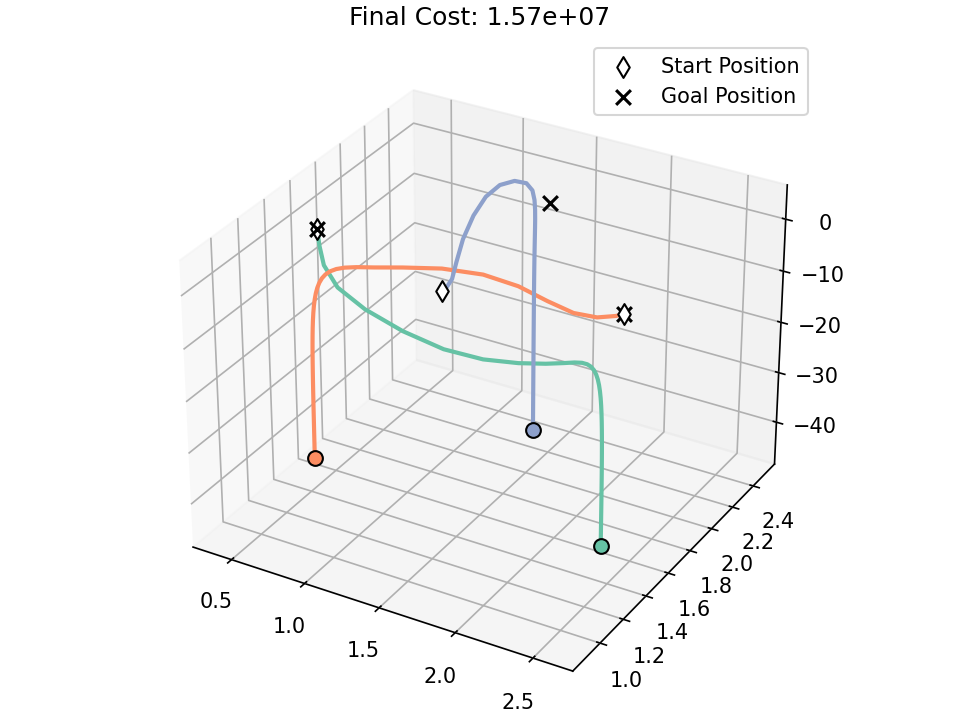
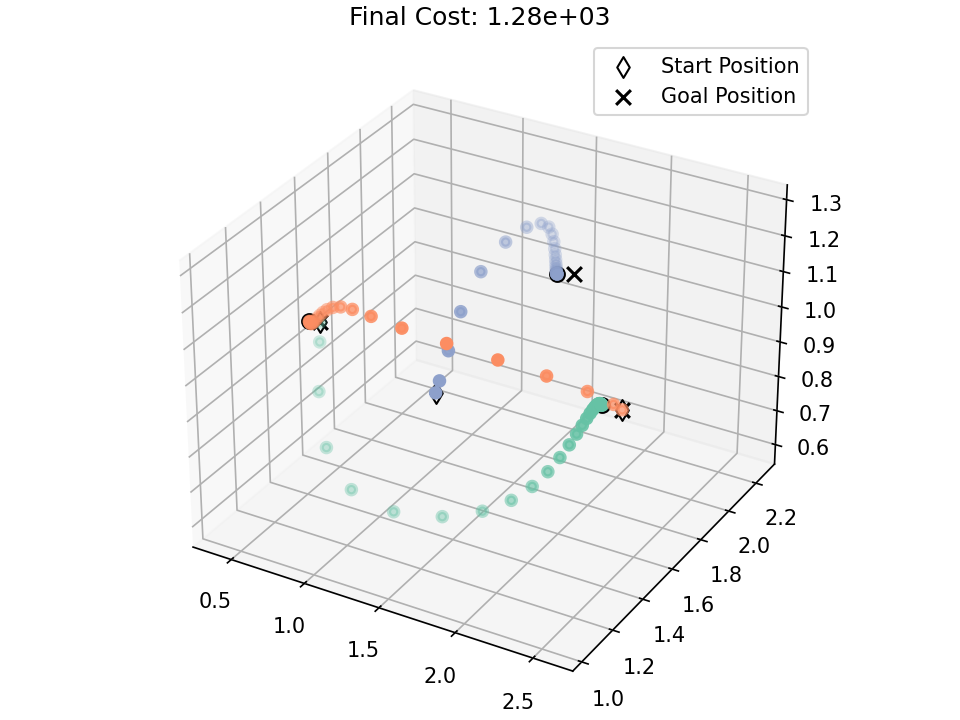
reverted back to using IPOPT and collision cost

diff --git a/distributed_ADMM/main.py b/distributed_ADMM/main.py
@@ -95,17 +95,14 @@ def solve_iteration(n_states, n_inputs, n_agents, x0, xr, T, radius, Q, R, Qf, x
         
         # ADMM loop
         iter = 0
-        #open-loop rollout of dynamics
-        # u_init = np.array([0, 0, 0]*N)
        
-        scaling_matrix = np.diag([1, 1, 2])
-        Ad,Bd = linear_kinodynamics(0.1, N)
+        # scaling_matrix = np.diag([1, 1, 2])
+        # Ad,Bd = linear_kinodynamics(0.1, N)
         while True:
             try:
                 coll_cost = 0
                 smooth_trj_cost = 0
                 f = util.generate_f(x_dims)
-                
                 for k in range(T):
                     k1 = f(states[f"Y_{agent_id}"][:(T+1)*nx][k*nx:(k+1)*nx],states[f"Y_{agent_id}"][(T+1)*nx:][k*nu:(k+1)*nu])
                     k2 = f(states[f"Y_{agent_id}"][:(T+1)*nx][k*nx:(k+1)*nx]+dt/2*k1, states[f"Y_{agent_id}"][(T+1)*nx:][k*nu:(k+1)*nu])
@@ -121,8 +118,8 @@ def solve_iteration(n_states, n_inputs, n_agents, x0, xr, T, radius, Q, R, Qf, x
                     #                 == Ad @ states[f"Y_{agent_id}"][:(T+1)*nx][k*nx:(k+1)*nx] \
                     #                     + Bd @ states[f"Y_{agent_id}"][(T+1)*nx:][k*nu:(k+1)*nu])
 
-                    d[f"opti_{agent_id}"].subject_to(states[f"Y_{agent_id}"][(T+1)*nx:][k*nu:(k+1)*nu] <= np.tile(np.array([3, 3, 3]),(N,)).reshape(-1,1))
-                    d[f"opti_{agent_id}"].subject_to(np.tile(np.array([-3, -3, -3]),(N,)).reshape(-1,1) <= states[f"Y_{agent_id}"][(T+1)*nx:][k*nu:(k+1)*nu])
+                    # d[f"opti_{agent_id}"].subject_to(states[f"Y_{agent_id}"][(T+1)*nx:][k*nu:(k+1)*nu] <= np.tile(np.array([3, 3, 3]),(N,)).reshape(-1,1))
+                    # d[f"opti_{agent_id}"].subject_to(np.tile(np.array([-3, -3, -3]),(N,)).reshape(-1,1) <= states[f"Y_{agent_id}"][(T+1)*nx:][k*nu:(k+1)*nu])
                   
                 
                     #Soft collision-avoidance constraints
@@ -167,9 +164,8 @@ def solve_iteration(n_states, n_inputs, n_agents, x0, xr, T, radius, Q, R, Qf, x
                                             states[f"Y_{agent_id}"][:(T+1)*nx][k*nx:(k+1)*nx][ind])**2
                     
                 X0 = d[f"opti_{agent_id}"].parameter(x0.shape[0],1)
-                # d[f"opti_{agent_id}"].subject_to(states[f"Y_{agent_id}"][0:nx] == x0) 
+ 
                 d[f"opti_{agent_id}"].subject_to(states[f"Y_{agent_id}"][0:nx] == X0)
-                d[f"opti_{agent_id}"].set_value(X0,x0)
                 
                 cost_tot = cost + coll_cost + smooth_trj_cost
                 
@@ -179,15 +175,11 @@ def solve_iteration(n_states, n_inputs, n_agents, x0, xr, T, radius, Q, R, Qf, x
                 
                 if iter > 0:
                     d[f"opti_{agent_id}"].set_initial(sol_prev.value_variables())
-
+                
+                d[f"opti_{agent_id}"].set_value(X0,x0)
                 sol = d[f"opti_{agent_id}"].solve()
-                    
-                # print(f'paramete xbar has value {sol.value(xbar)}')
-                # print(f'parameter u has value {sol.value(u)}')
       
                 sol_prev = sol
-                
-                # state_prev = sol.value(states[f"Y_{agent_id}"])
                 pipe.send(sol.value(states[f"Y_{agent_id}"]))
                 
                 d[f"opti_{agent_id}"].set_value(xbar, pipe.recv()) #receive the averaged result from the main process.
@@ -312,7 +304,7 @@ def solve_admm_mpc(n_states, n_inputs, n_agents, x0, xr, T, radius, Q, R, Qf, MA
         
         mpc_iter += 1
         t += dt
-        if mpc_iter > 35:
+        if mpc_iter > 30:
             print('Max MPC iters reached!Exiting MPC loops...')
             converged = False
             break
@@ -472,6 +464,7 @@ def solve_mpc_centralized(n_agents, x0, xr, T, radius, Q, R, Qf, n_trial = None)
     dt = 0.1
     
     x_dims = [6]*N
+    n_dims = [3]*N
     f = util.generate_f(x_dims)
     Ad,Bd = linear_kinodynamics(0.1,N)
     
@@ -507,17 +500,14 @@ def solve_mpc_centralized(n_agents, x0, xr, T, radius, Q, R, Qf, n_trial = None)
             #                 == Ad @ Y_state[:(T+1)*nx][k*nx:(k+1)*nx] \
             #                     + Bd @ Y_state[(T+1)*nx:][k*nu:(k+1)*nu])
             
-            opti.subject_to(Y_state[(T+1)*nx:][k*nu:(k+1)*nu] <= np.tile(np.array([3, 3, 3]),(N,)).reshape(-1,1))
-            opti.subject_to(np.tile(np.array([-3, -3, -3]),(N,)).reshape(-1,1) <= Y_state[(T+1)*nx:][k*nu:(k+1)*nu])
-
-            # opti.subject_to(Y_state[:(T+1)*nx][k*nx:(k+1)*nx] <= np.tile(np.array([4, 4, 4, 3, 3, 3]),(N,)).reshape(-1,1))
-            # opti.subject_to(np.tile(np.array([-4, -4, -4, -3, -3, 0]),(N,)).reshape(-1,1) <= Y_state[:(T+1)*nx][k*nx:(k+1)*nx])
+            # opti.subject_to(Y_state[(T+1)*nx:][k*nu:(k+1)*nu] <= np.tile(np.array([3, 3, 3]),(N,)).reshape(-1,1))
+            # opti.subject_to(np.tile(np.array([-3, -3, -3]),(N,)).reshape(-1,1) <= Y_state[(T+1)*nx:][k*nu:(k+1)*nu])
 
             #Pair-wise Euclidean distance between each pair of agents
-            distances = util.compute_pairwise_distance_nd_Sym(Y_state[:(T+1)*nx][k*nx:(k+1)*nx],[6,6,6], [3,3,3])
+            distances = util.compute_pairwise_distance_nd_Sym(Y_state[:(T+1)*nx][k*nx:(k+1)*nx],x_dims, n_dims)
             #Collision avoidance cost
             for dist in distances:
-                coll_cost += fmin(0,(dist - radius))**2 * 1200
+                coll_cost += fmin(0,(dist - 2*radius))**2 * 1200
                 # coll_cost += fmin(0,(dist - radius))**2 * 400
             
             # #Linearized collision constraints:
@@ -589,7 +579,7 @@ def solve_mpc_centralized(n_agents, x0, xr, T, radius, Q, R, Qf, n_trial = None)
         
         iters += 1
         t += dt
-        if iters > 35:
+        if iters > 30:
             converged = False
             print(f'Max MPC iters reached; exiting MPC loops.....')
             break
@@ -742,8 +732,8 @@ def monte_carlo_analysis():
 
     n_trials_iter = range(30)
 
-    # n_agents_iter = [3, 4, 5, 6, 7, 8]
-    n_agents_iter = [3, 5, 10]
+    n_agents_iter = [3, 4, 5, 6, 7, 8]
+    # n_agents_iter = [3, 5, 10]
     # n_agents_iter = [10]
 
     radius = 0.5
@@ -794,7 +784,7 @@ if __name__ == "__main__":
     if not Log_Data:
         # admm_iter = 15
         # admm_iter = 5
-        admm_iter = 3
+        admm_iter = 5
         x0, xr = util.paper_setup_3_quads()
 
         X_full, U_full, obj, avg_SolveTime, obj_history_admm = solve_admm_mpc(n_states,
